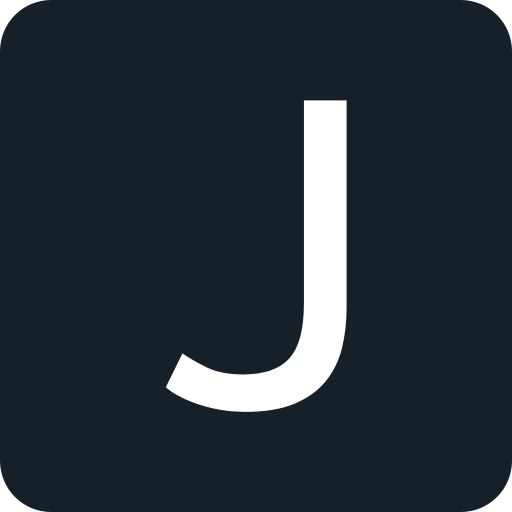
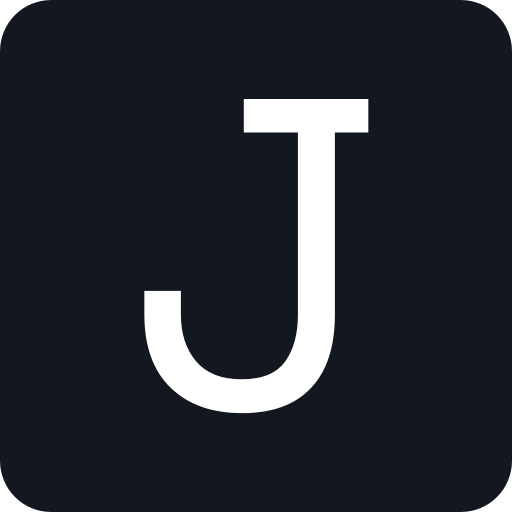
updated default fonts

diff --git a/templates/base.html b/templates/base.html
@@ -49,9 +49,9 @@
 
     <link rel="preconnect" href="https://fonts.googleapis.com">
     <link rel="preconnect" href="https://fonts.gstatic.com" crossorigin>
-    <link href="https://fonts.googleapis.com/css2?family=Ubuntu+Mono:ital,wght@0,400;0,700;1,400;1,700&family=Ubuntu:ital,wght@0,400;0,700;1,400;1,700&display=swap" rel="stylesheet">
+    <link href="https://fonts.googleapis.com/css2?family=Space+Grotesk:wght@300..700&family=Space+Mono:ital,wght@0,400;0,700;1,400;1,700&display=swap" rel="stylesheet">
     <link rel="stylesheet" href="https://cdn.jsdelivr.net/npm/@picocss/pico@2/css/pico.min.css">
-    <link rel="stylesheet" href="/style.css?v=2025-06-29">
+    <link rel="stylesheet" href="/style.css?v=2025-07-05">
     <link rel="apple-touch-icon" sizes="180x180" href="/apple-touch-icon.png">
     <link rel="icon" type="image/png" sizes="32x32" href="/favicon-32x32.png">
     <link rel="icon" type="image/png" sizes="16x16" href="/favicon-16x16.png">

diff --git a/static/style.css b/static/style.css
@@ -56,11 +56,11 @@ html {
 }
 /* font overrides */
 :root {
-    --pico-font-family: "Ubuntu", var(--pico-font-family-sans-serif);
+    --pico-font-family: "Space Grotesk", var(--pico-font-family-sans-serif);
 }
 pre,
 code,
 kbd,
 samp {
-  --pico-font-family: "Ubuntu Mono", var(--pico-font-family-monospace);
+  --pico-font-family: "Space Mono", var(--pico-font-family-monospace);
 }
